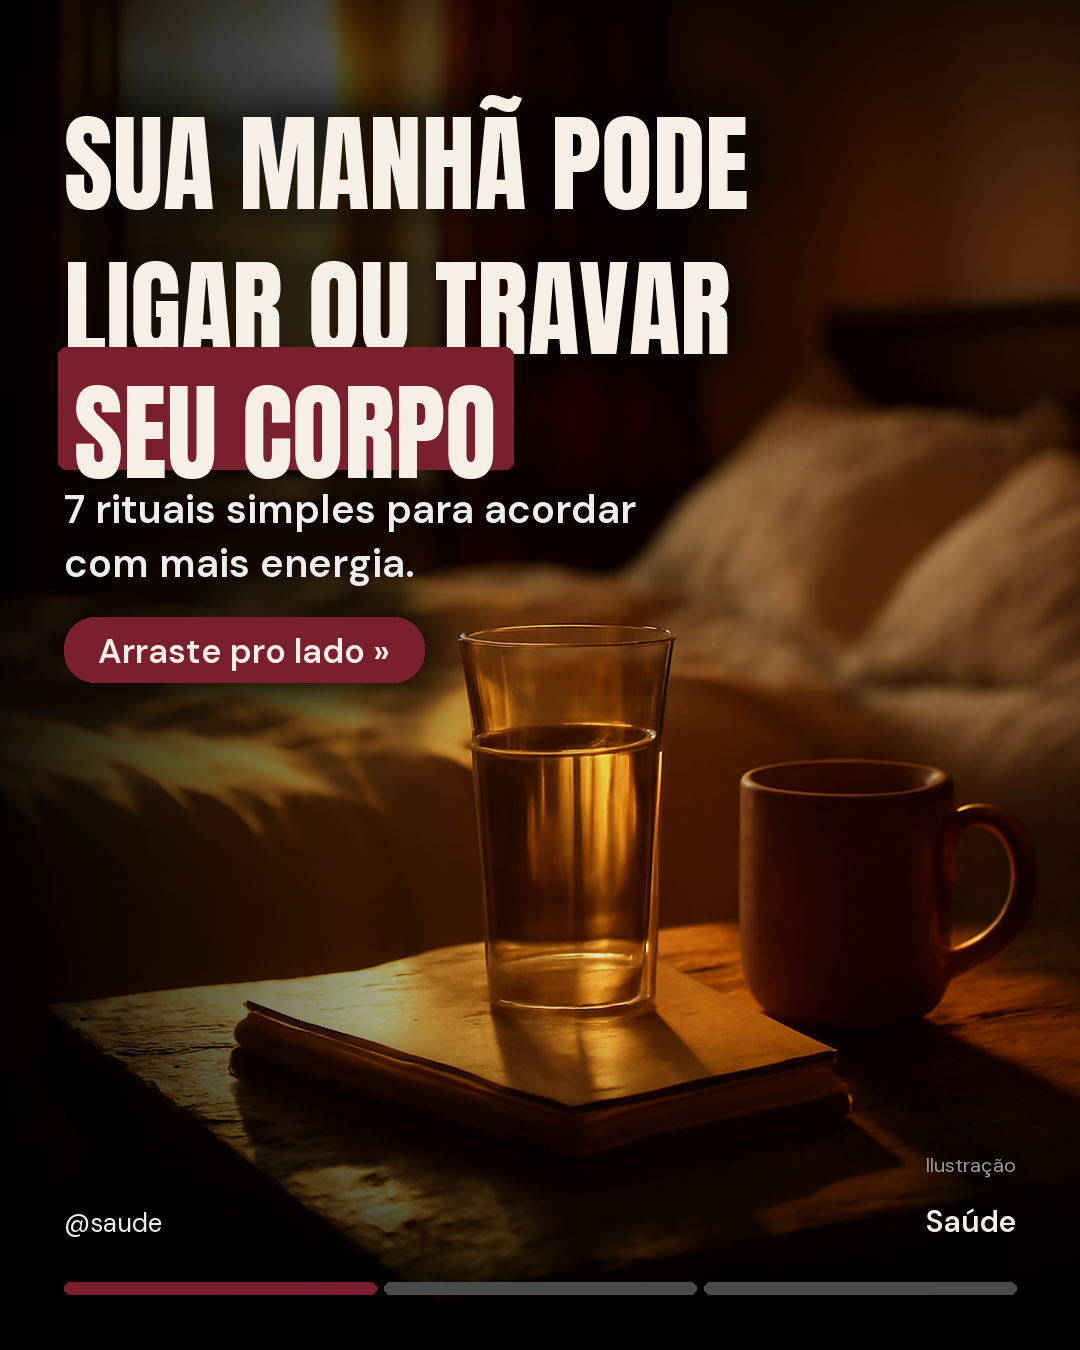
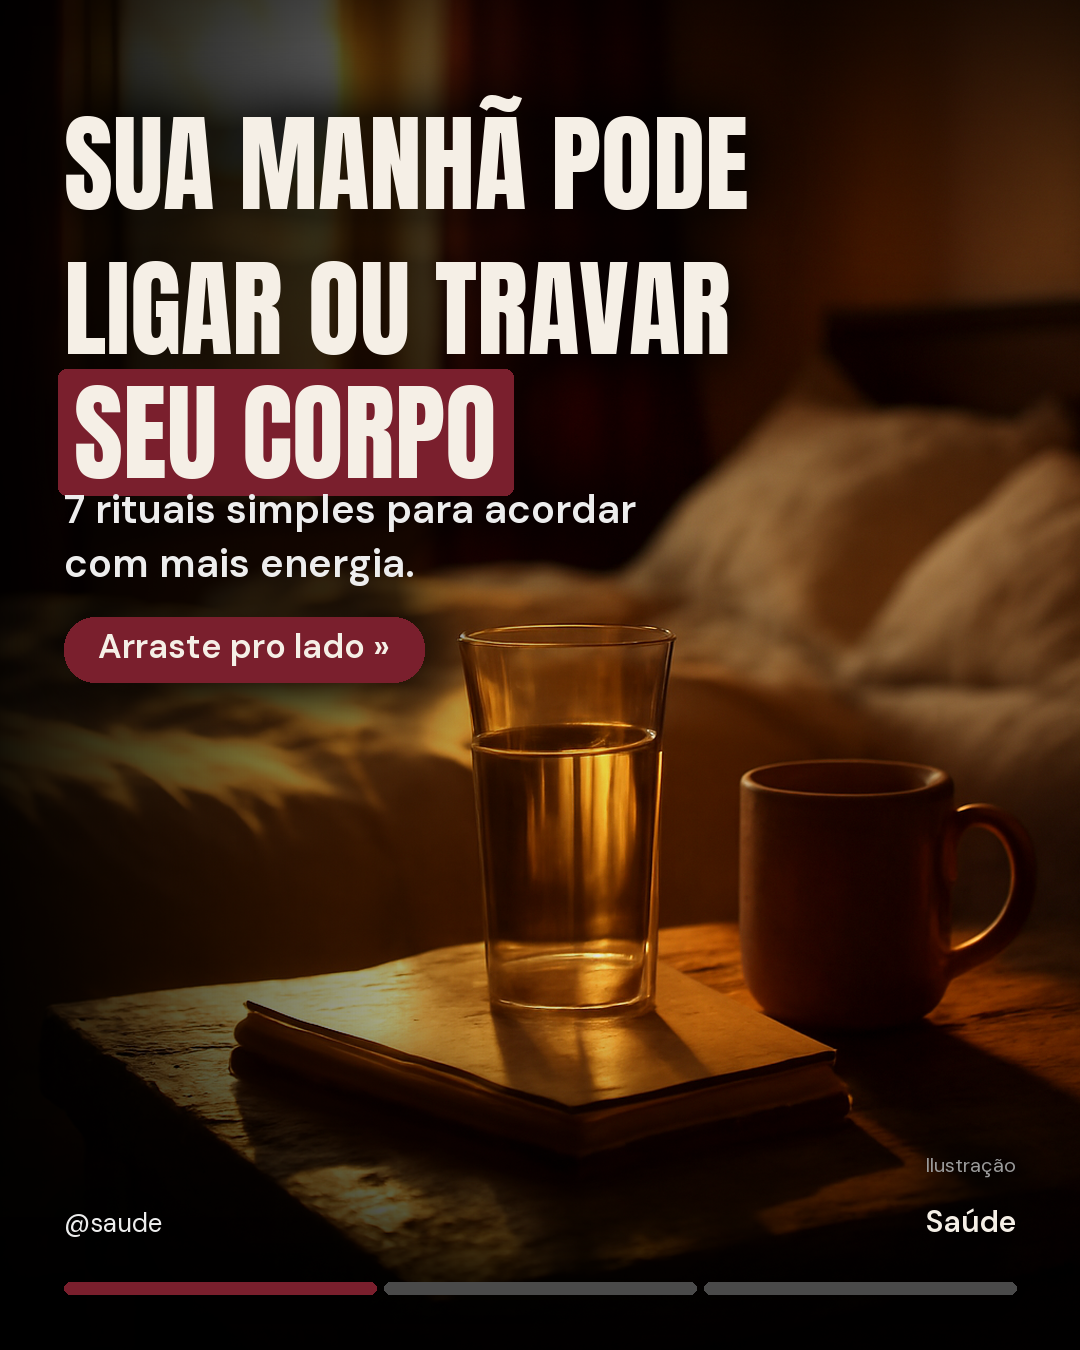
Balao de destaque e pilulas centralizados na caixa de tinta real do texto
O balao do titulo era posicionado pela origem tipografica da linha e a
Anton tem folga interna grande acima das letras: o balao subia (invadindo
a linha anterior) e o texto escapava por baixo. Agora balao e pilulas sao
medidos pelo textbbox do desenho real, com folga igual nos quatro lados.

Changed region(s): [[0.0306, 0.3422, 0.4889, 0.3733], [0.0306, 0.2489, 0.4889, 0.28], [0.0917, 0.4667, 0.3667, 0.4978]]

diff --git a/.claude/skills/carrossel-instagram/scripts/montar_slide.py b/.claude/skills/carrossel-instagram/scripts/montar_slide.py
@@ -172,11 +172,14 @@ def desenhar_raio(d, x, y, h, cor):
 
 
 def pilula(d, x, y, texto, f, preenchimento, cor_texto, pad_x=26, pad_y=12):
-    """Desenha pilula preenchida com canto arredondado; retorna (largura, altura)."""
-    lg, at = larg(d, texto, f), alt(d, texto, f)
-    w, h = lg + 2 * pad_x, at + 2 * pad_y
+    """Desenha pilula preenchida com canto arredondado; retorna (largura, altura).
+    O texto e centralizado pela caixa de tinta REAL das letras (textbbox), para o
+    balao ficar sempre alinhado com a escrita."""
+    l, t, r, b = d.textbbox((0, 0), texto, font=f)
+    w = (r - l) + 2 * pad_x
+    h = (b - t) + 2 * pad_y
     d.rounded_rectangle([x, y, x + w, y + h], radius=h / 2 - 2, fill=preenchimento)
-    d.text((x + pad_x, y + pad_y - 4), texto, font=f, fill=cor_texto)
+    d.text((x + pad_x - l, y + pad_y - t), texto, font=f, fill=cor_texto)
     return w, h
 
 
@@ -373,8 +376,11 @@ def montar_m2(spec, pal, meta, dir_base, idx, total):
         f = fonte_ajustada(d, txt, FONTES_TITULO, 106, 880)
         at = alt(d, txt, f)
         if linha.get("destaque"):
-            lg = larg(d, txt, f)
-            d.rounded_rectangle([X - 6, y - 6, X + lg + 26, y + at + 22],
+            # balao centralizado na caixa de tinta REAL das letras, com folga igual
+            # em todos os lados (nao invade a linha de cima nem corta a de baixo)
+            l, t, r, b = d.textbbox((X + 10, y), txt, font=f)
+            pad = 16
+            d.rounded_rectangle([l - pad, t - pad, r + pad, b + pad],
                                 radius=8, fill=pal["destaque"])
             d.text((X + 10, y), txt, font=f, fill=cor_pill_txt)
         else:
